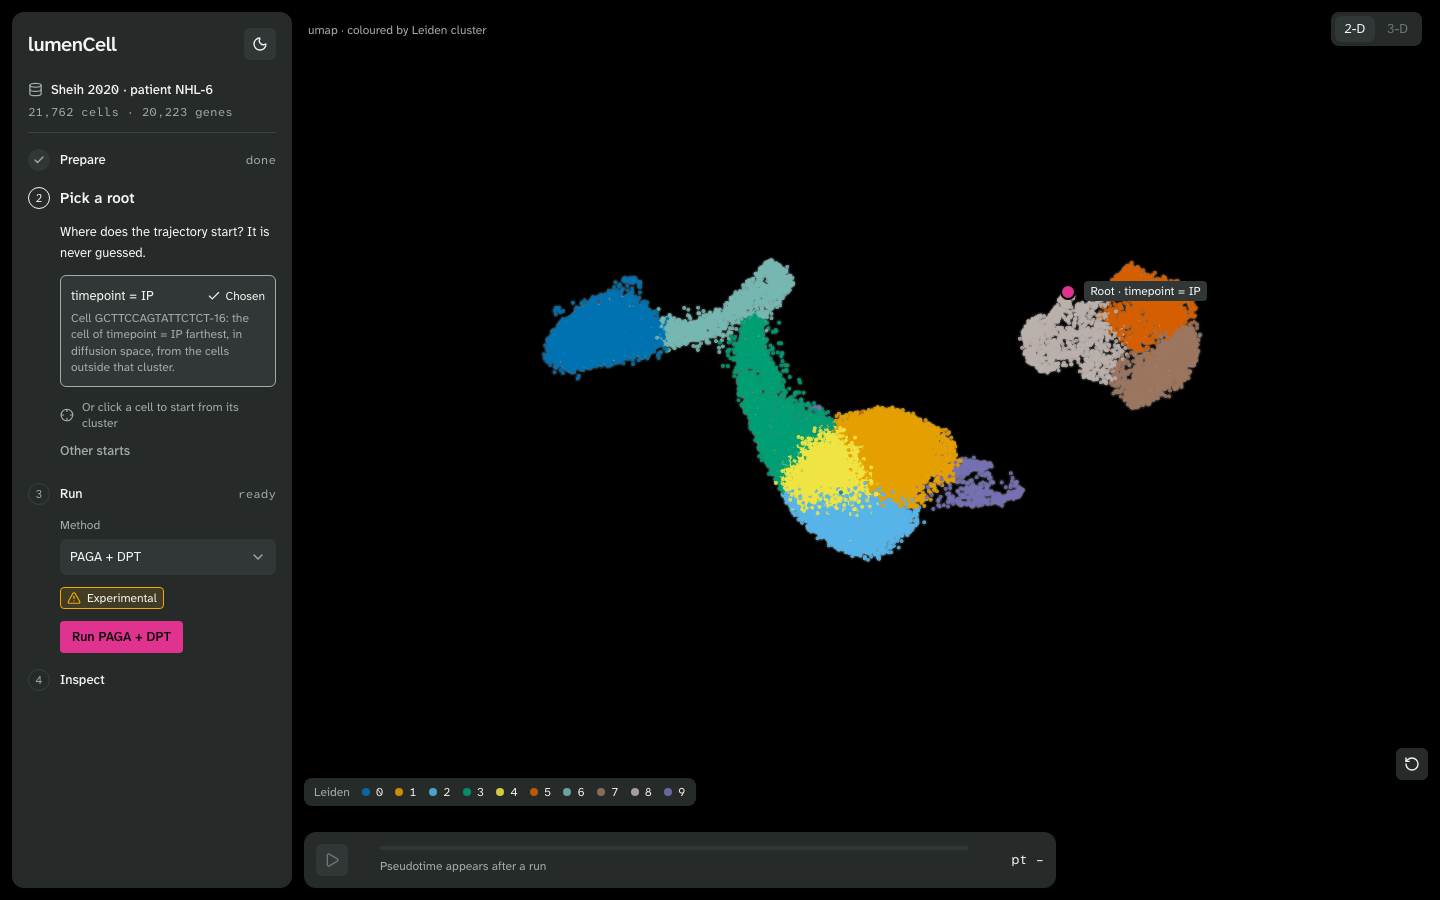
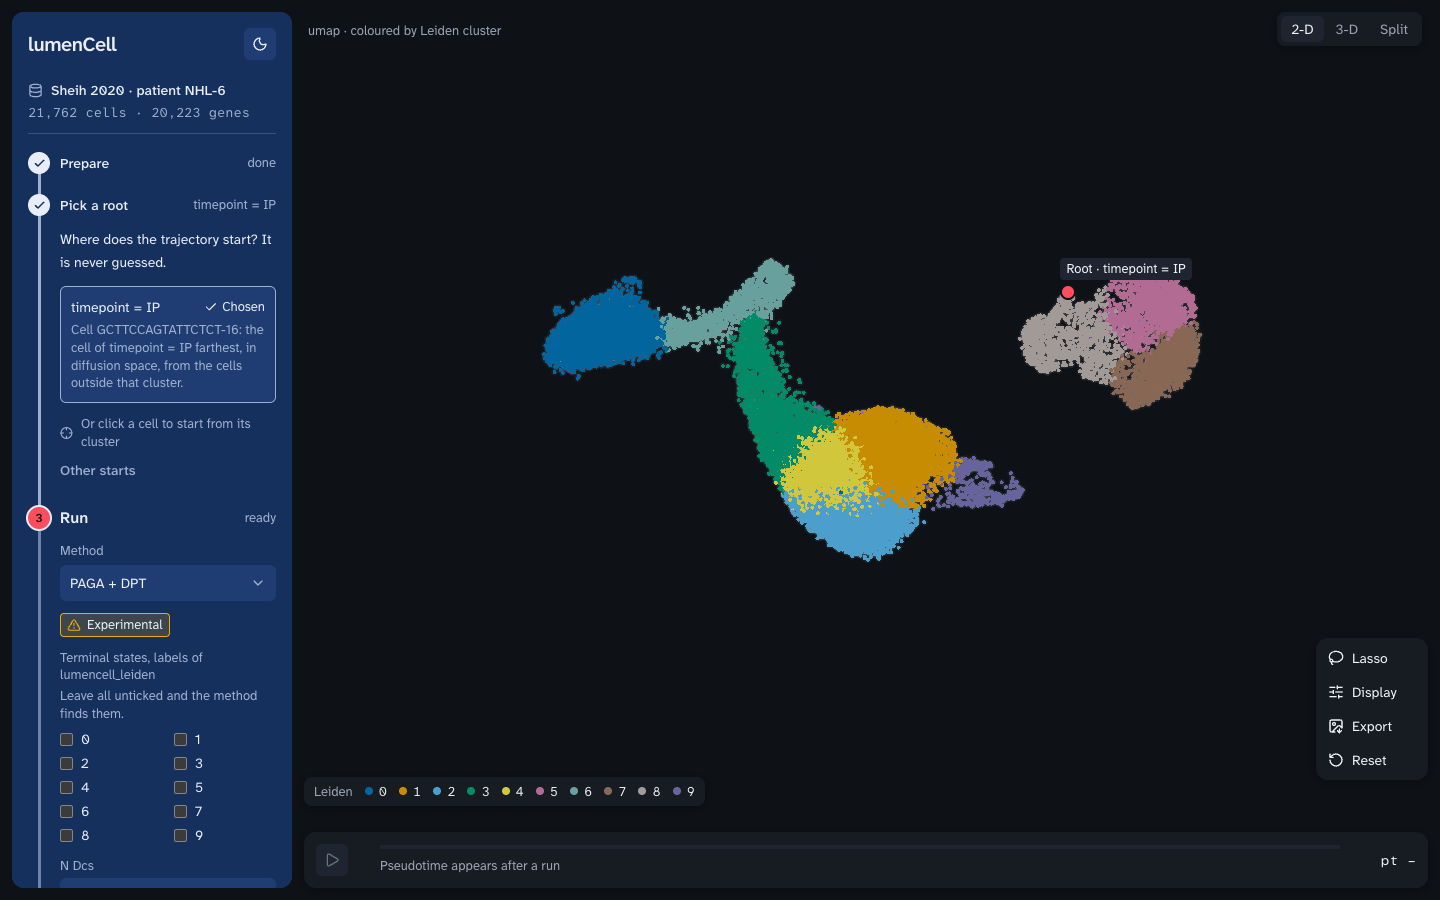
Retake the README screenshots in the Lineage lines look
All nine images in docs/images, same names, at 1440x900 (the trust panel
at 2x), dark except explorer-light.png. Taken with Playwright on Sheih 2020
patient NHL-6, rebuilt from GEO GSE125881 with the pre-#80 sheih2020
builder (hashes match the recorded ones; 21,762 cells, 20,223 genes), root
timepoint = IP, PAGA + DPT, clones named by clone_id within patient,
stratified by timepoint. The run gives the same verdict as before (weak,
548 clones).

The hero caption now uses the sheet's own words: it leads with its
verdict rather than saying "weak", which the sheet never shows.

diff --git a/README.md b/README.md
@@ -9,8 +9,8 @@ trends along pseudotime and how far to trust the result, in the browser.
 ![CAR T cells from patient NHL-6 (Sheih 2020) on diffusion components 1 to 3, with the Evidence sheet](https://raw.githubusercontent.com/shreyandhawa/lumenCell_V2/main/docs/images/explorer-3d-evidence.png)
 
 CAR T cells from patient NHL-6 (Sheih 2020) on diffusion components 1 to 3, with the
-trajectory's lineages drawn through them. The Evidence sheet on the right rates the run
-weak: clones do not back these lineages any better than plain expression clusters do.
+trajectory's lineages drawn through them. The Evidence sheet on the right leads with its
+verdict: clones do not back these lineages any better than plain expression clusters do.
 
 <table>
   <tr>
